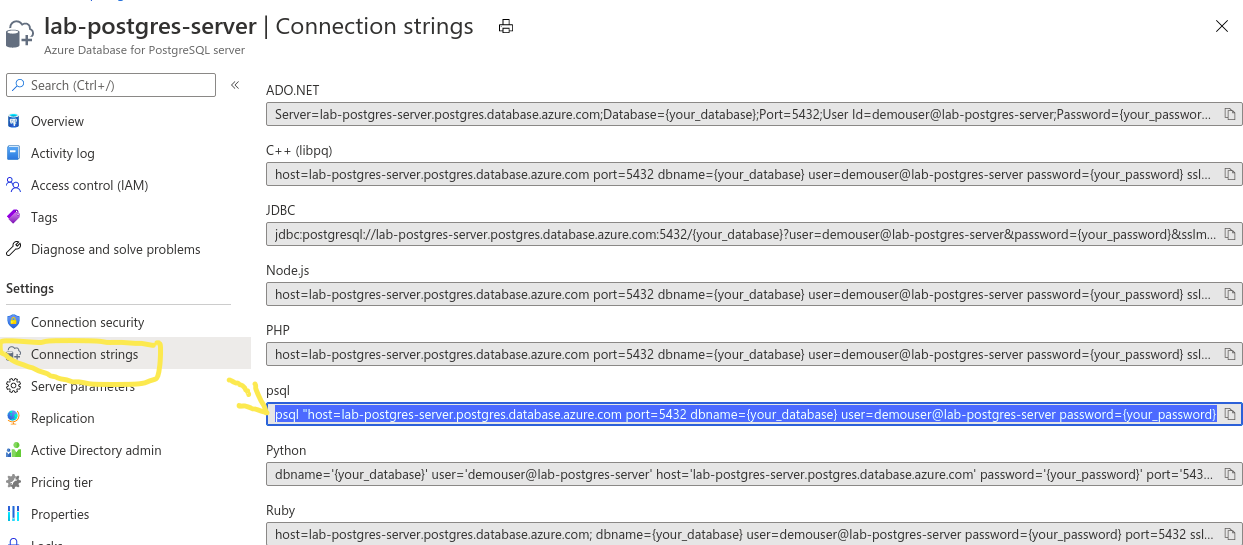
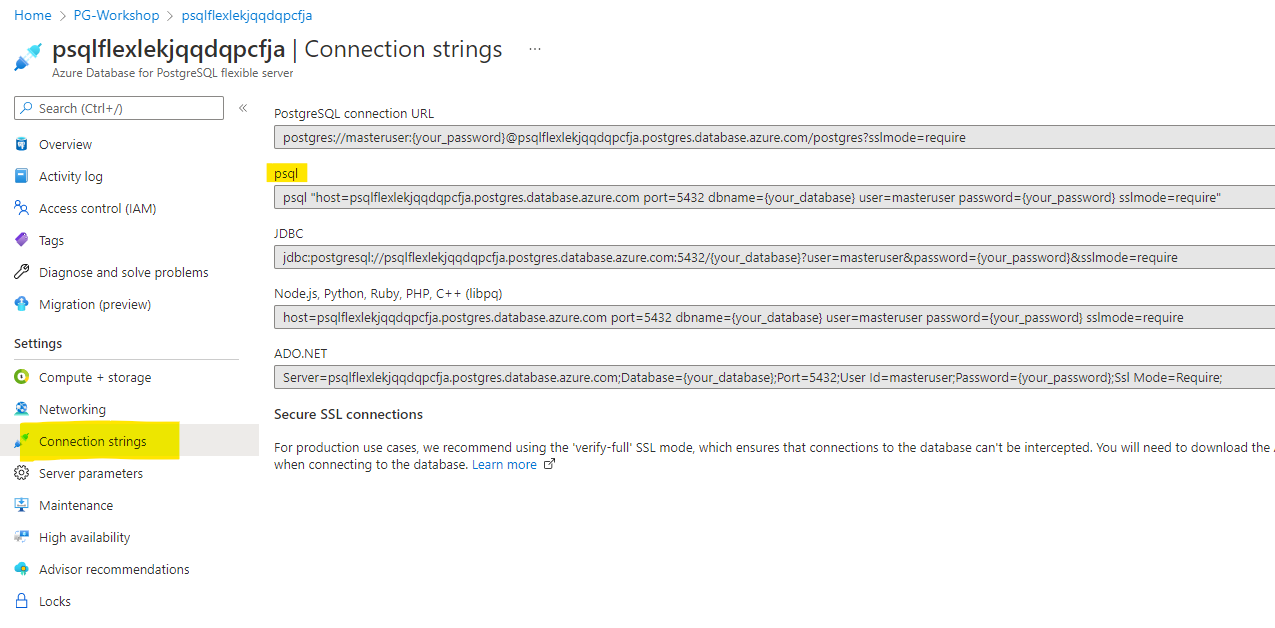
adding chapter

diff --git a/_entries/02-02 connecting-db.md b/_entries/02-02 connecting-db.md
@@ -6,10 +6,12 @@ parent-id: upandrunning
 title: Connecting to PostgreSQL
 ---
 
-In order to connect to a database you need to know the name of your target database, the host name and port number of the server, and what user name you want to connect as. **psql** can be told about those parameters via command line options, namely -d, -h, -p, and -U respectively. If an argument is found that does not belong to any option it will be interpreted as the database name (or the user name, if the database name is already given). Not all of these options are required; there are useful defaults. If you omit the host name, psql will connect via a Unix-domain socket to a server on the local host, or via TCP/IP to localhost on machines that don't have Unix-domain sockets. The default port number is determined at compile time. Since the database server uses the same default, you will not have to specify the port in most cases. The default user name is your operating-system user name, as is the default database name.
-When the defaults aren't quite right, you can save yourself some typing by setting the environment variables PGDATABASE, PGHOST, PGPORT and/or PGUSER to appropriate values. It is also convenient to have a ~/.pgpass file to avoid regularly having to type in passwords.
+In order to connect to a database you need to know the name of your target database, the host name and port number of the server, and what user name you want to connect as. 
+
+You can save yourself some typing by setting the environment variables PGDATABASE, PGHOST, PGPORT and/or PGUSER to appropriate values. It is also convenient to have a **~/.pgpass** file to avoid regularly having to type in passwords.
 
 ### Basic psql options
+
     -d dbname
     --dbname=dbname
         Specifies the name of the database to connect to. This is equivalent to specifying dbname as the first non-option argument on the command line.
@@ -35,14 +37,20 @@ When the defaults aren't quite right, you can save yourself some typing by setti
 Example (please change these values to match with your setup) from the cloudshell
 
 ```sh
-ssh username@<jumpbox-ip
+ssh username@<jumpbox-ip> # the DNS VM IP Address, and the username that you selected in deployment
 ```
+![ssh access](media/ssh-access.png)
+
+
 In the first time acessing the jumpbox make sure that you have psql installed use the following commands once you logon 
 ```
-sudo dnf module enable -y postgresql:12
+sudo dnf module enable -y postgresql:13
 sudo dnf install -y postgresql
 
 ```
+You should see output like this
+
+![Install PG client](media/dnf-install-pg.png)
 
 Then connect to the database
 
@@ -50,6 +58,7 @@ Then connect to the database
 psql -U adminuser -h postgresql-db.postgres.database.azure.com postgres
 
 ```
+![Install PG client](media/pg-access.png)
 
 ### Getting the connection string from Azure Portal
 In this task, we will create a file in our Cloud Shell containing [libpq environment variables](https://www.postgresql.org/docs/current/libpq-envars.html) that will be used to select default connection parameter values to PostgreSQL PaaS instance. These are useful to be able to connect to postgres in a fast and convenient way without hard-coding connection string.
@@ -60,6 +69,7 @@ Go to the "Connection Strings" tab on the left hand side of the Azure Portal and
 
 Open Cloud Shell and create a new *.pg_azure* file using your favourite editor (if you are not compfortable with Vim you can use VSCode):
 
+**Using VIM**
 ```sh
 vi .pg_azure
 ```
@@ -74,7 +84,7 @@ export PGPASSWORD=your_password
 export PGSSLMODE=require
 ```
 
-You might use **VSCode** instead of *Vim**
+You might use **VSCode** instead of **Vim**
 
 ```sh
 wget https://storageaccounthol.z6.web.core.windows.net/scripts/pg_azure -O .pg_azure
@@ -84,7 +94,7 @@ wget https://storageaccounthol.z6.web.core.windows.net/scripts/pg_azure -O .pg_a
 code .pg_azure
 ```
 
-Once the code pane opens, modify the paramerts to match with your setup, press **"CTRL+s"** to save the configuration file.
+Once the code pane opens, modify the parameters to match with your setup, press **"CTRL+s"** to save the configuration file.
 
 Read the content of the file in the current session:
 
@@ -100,8 +110,7 @@ Let's connect to our Azure database with psql client:
 psql
 ```
 
-<a href="media/ex03_libpq.gif" target="_blank"><img src="media/ex03_libpq.gif" style="width:800px"></a>
-
+You should connect to the postgres without any parameters
 
 
 **Task Hints**

diff --git a/_entries/02-03 data-import-psql.md b/_entries/02-03 data-import-psql.md
@@ -6,10 +6,18 @@ parent-id: upandrunning
 title: Data import and environment preparation
 ---
 
-psql is a terminal-based front-end to PostgreSQL. It enables you to type in queries interactively, issue them to PostgreSQL, and see the query results. Alternatively, input can be from a file or from command line arguments. In addition, psql provides a number of meta-commands and various shell-like features to facilitate writing scripts and automating a wide variety of tasks.
-Anything you enter in psql that begins with an **unquoted backslash** (\\) is a psql meta-command that is processed by psql itself. These commands make psql more useful for administration or scripting. Meta-commands are often called slash or backslash commands. The format of a psql command is the backslash, followed immediately by a command verb, then any arguments. The arguments are separated from the command verb and each other by any number of whitespace characters.
+psql is a terminal-based front-end to PostgreSQL. It enables you to type in queries interactively, issue them to PostgreSQL, and see the query results. 
+
+Anything you enter in psql that begins with an **unquoted backslash** (\\) is a psql meta-command that is processed by psql itself.
+
+ These commands make psql more useful for administration or scripting. Meta-commands are often called slash or backslash commands. The format of a psql command is the backslash, followed immediately by a command verb, then any arguments. The arguments are separated from the command verb and each other by any number of whitespace characters.
 
 List the databases in the cluster:
+
+
+```sh 
+psql
+```
 
 ```sh 
 postgres=> \l
@@ -70,12 +78,17 @@ postgres=> \l
 ```
 
 Lists schemas (namespaces) in the current database:
+quiz-> \l
+
+![Schenma list](media/schema-list.png)
+
+
 ```sh 
 quiz=> \dn
      List of schemas
   Name  |     Owner
 --------+----------------
- calc   | gustaw
+ calc   | masteruser
  public | azure_pg_admin
 (2 rows)
 ```
@@ -83,7 +96,7 @@ quiz=> \dn
 Check your current connection:
 ```sh 
 quiz=> \conninfo
-You are connected to database "quiz" as user "gustaw" on host "demo.postgres.database.azure.com" (address "20.67.160.95") at port "5432".
+You are connected to database "quiz" as user "masteruser" on host "psqlflexlekjqqdqpcfja.postgres.database.azure.com" (address "192.168.1.132") at port "5432".
 SSL connection (protocol: TLSv1.3, cipher: TLS_AES_256_GCM_SHA384, bits: 256, compression: off)
 ```
 

diff --git a/_entries/02-01 DBProvision.md b/_entries/02-01 DBProvision.md
@@ -10,7 +10,7 @@ Azure Database for PostgreSQL is a fully-managed database as a service with buil
 ### Tasks
 
 * Use [Bicep](https://docs.microsoft.com/en-us/azure/azure-resource-manager/bicep/overview?tabs=bicep) to deploy Azure Database for PostgreSQL - Flexible server.
-* Use [Azure Cloud Shell](https://docs.microsoft.com/en-us/azure/cloud-shell/overview) to connected to the created database instance.
+* Use [Azure Cloud Shell](https://docs.microsoft.com/en-us/azure/cloud-shell/overview) to connect to **DNS VM** then you can access the Azure PostgreSQL database..
 
 #### Setup Database
 
@@ -19,7 +19,7 @@ Azure Database for PostgreSQL is a fully-managed database as a service with buil
 Deploy Azure Database for PostgreSQL, which is managed service that you can use to run, manage, and scale in the cloud.
 
 
-Based in the previous section, the cloudshell enviroment should be available, log to your cloudshell - bash. the next step is to install **bicep**  
+Based on the previous section, the cloudshell environment should be available, log to your cloudshell - bash. the next step is to install **bicep**  
 
 ```sh
 az bicep install
@@ -64,21 +64,24 @@ You will be asked for 4 questions
 
 ![Create PG workshop resource group](media/bicep/5-bicep-deploy.png)
 
+It will take a while to deploy the environment, when it finish you should see long output mentioning **succeeded** in the last 10 lines. 
+
+![Created PG workshop resource group](media/resource-groups-sucess.png)
+
 
 After the creation process finished you should be able to see the resource in the resource groups, go to Resource Groups
 
 ![Resource Groups](media/bicep/6-resource-groups.png)
 
-Click on the resource group name that we created, PG-Workshop if you didn't change it.
+Click on the resource group name that we created, **PG-Workshop** if you didn't change the az command to create the resource group.
 
 ![Resource Groups](media/bicep/7-resources-dns-pg.png)
 
-Visit both DNS VM to get the public IP and the PostgreSQL Flexible Server to get the endpoint
+Visit both **DNS VM** to get the public IP and the PostgreSQL Flexible Server to get the **access endpoint**, please keep them as we will use them during the workshop.
 
 ![Resource Groups](media/bicep/8-dns-publicip.png)
 
 ![Resource Groups](media/bicep/9-pg-endpoint.png)
-
 
 
 Now we move the next section to connect to the DB.

diff --git a/_entries/03-01 managing-db.md b/_entries/03-01 managing-db.md
@@ -1,8 +1,52 @@
 ---
-sectionid: tls
+sectionid: managing-db
 sectionclass: h2
 title: Managing PostgreSQL DB
 parent-id: basicadmin
 
 ---
 
+
+### Managing Compute and Storage
+Navigate to **Compute + Storage**, you will be able to alter storage and compute. Also, navigate to change the backup retention.
+
+You don't have to change the compute the size as it might have additional cost for having a bigger instance. 
+
+![Compute and Storage](media/compute_storage.png)
+
+
+### Managing Server Parameters
+
+As you don't have access to configuration files, you can change server parameters through the Azure Portal/APIs.
+
+![managing parameters](media/pg-parameters.png)
+
+In the search box type **pgbouncer** and change the value to **TRUE**
+
+![managing parameters](media/pgbouncer.png)
+
+**Save** the changes, and wait until the new deployment finish successfully  
+
+![managing parameters](media/pgbouncer-success.png)
+
+Once you see the success screen, go to the VM and try to access PostgreSQL through port 6432
+
+```sh
+psql -p 6432
+```
+![managing parameters](media/pgbouncer-test.png)
+
+### Apply Server Locks
+
+Navigate to **Locks**
+
+![managing locks](media/pg-server-locks.png)
+
+Click on **+Add**, add Lock name of your choice and lock type with **Delete** 
+
+![managing locks](media/pg-delete-locks.png)
+
+If you tried to delete the server it should give the such below error
+
+
+![managing locks](media/pg-delete-lock-error.png)

diff --git a/_entries/01-01 prerequisites.md b/_entries/01-01 prerequisites.md
@@ -13,7 +13,7 @@ You can use the Azure Cloud Shell accessible at <https://shell.azure.com> once y
 
 ### Azure subscription
 
-#### If you have an Azure subscription
+#### If the workshop will run on your Azure subscription
 
 {% collapsible %}
 
@@ -28,6 +28,20 @@ az login
 
 {% endcollapsible %}
 
+
+#### If the workshop will run on [Azure Pass](https://www.microsoftazurepass.com/)
+{% collapsible %}
+
+* Login with a github account with the provided link: https://azcheck.in/xxxxxxx (Please use the provided one)
+    ![Azure Cloud Shell](media/1-az-checkin.png)
+* Follow the instructions, basically copy the code and go to: <https://www.microsoftazurepass.com/> to redeem the voucher and click on **Start>**.
+
+    ![Azure Cloud Shell](media/2-azure-pass.png)
+
+
+For more information follow : <https://www.microsoftazurepass.com/Home/HowTo?Length=5>
+
+{% endcollapsible %}
 #### Azure Cloud Shell
 
 You can use the Azure Cloud Shell accessible at <https://shell.azure.com> once you login with an Azure subscription.

diff --git a/_entries/01 introduction.md b/_entries/01 introduction.md
@@ -21,7 +21,6 @@ You can use this guide as a PostgreSQL tutorial and as study material to help yo
 - Logical backup
 - Back-ups/restore   
 - HA/DR 
-- Azure Backup
 - Patching and maintenance windows
 - Security Management in Azure Database for PostgreSQL 
 
@@ -32,5 +31,4 @@ You can use this guide as a PostgreSQL tutorial and as study material to help yo
     - Daemons & Tuning
     - SQL characteristic
     - Statistics and Query
-- Extensions 
-    - Time-series database on PostgreSQL
+

diff --git a/_entries/03-02 roles-permissions.md b/_entries/03-02 roles-permissions.md
@@ -1,5 +1,5 @@
 ---
-sectionid: tls
+sectionid: roles
 sectionclass: h2
 title: Roles and Permissions
 parent-id: basicadmin
@@ -8,8 +8,9 @@ parent-id: basicadmin
 
 Connect to the PostgreSQL instance
 ```sh 
-[postgres@localhost ~]$ psql
-psql (11.5)
+[diaa@dns ~]$ psql 
+psql (13.5, server 13.6)
+SSL connection (protocol: TLSv1.3, cipher: TLS_AES_256_GCM_SHA384, bits: 256, compression: off)
 Type "help" for help.
 
 postgres=> 
